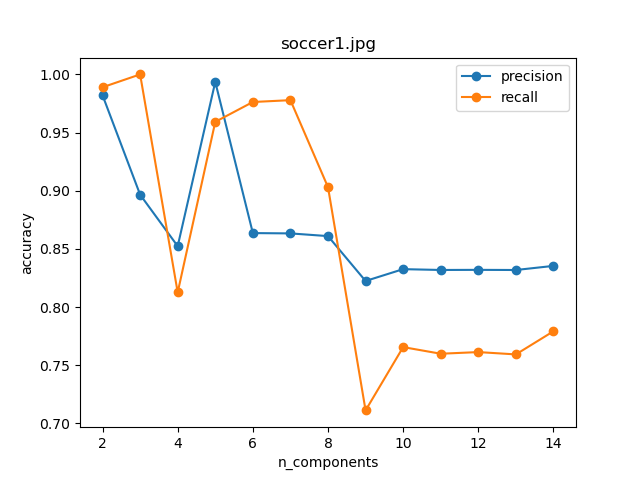
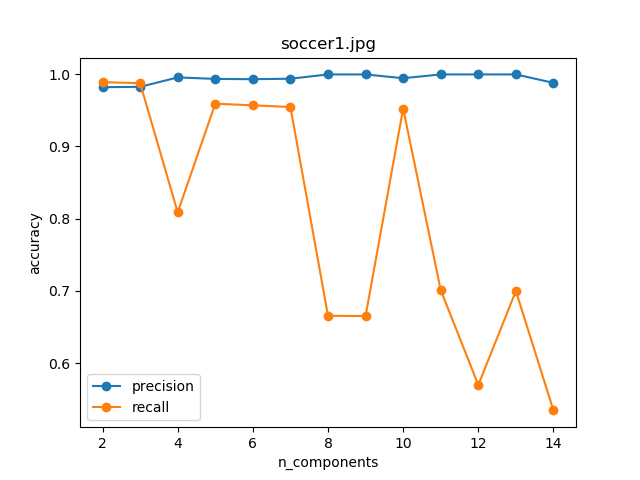
finish v1

diff --git a/python/Multimedia/Homework4/GaussianMixtureModel.py b/python/Multimedia/Homework4/GaussianMixtureModel.py
@@ -38,19 +38,18 @@ class gaussianMixtureModel:
         self.GMM_Model = GaussianMixture(n_components = n).fit(imageReshape)
 
         
-    def predictGaussianMixtureModel(self, filename, reverse = False):
+    def predictGaussianMixtureModel(self, filename):
         if self.GMM_Model == []:
             return
 
         np.random.seed(1)
         self.predictImage = cv2.imread(self.path + filename)
         imageReshape = self.predictImage.reshape((-1, 3))
-
         self.histogram = np.histogram(self.predictImage, bins=100)
-
         gmm_label = self.GMM_Model.predict(imageReshape)
         self.binaryImage = gmm_label.reshape((self.predictImage.shape[0], self.predictImage.shape[1]))
-        self.binaryImage = np.where(self.binaryImage, (not reverse) * 1, reverse * 1)
+        kind = collections.Counter(list(gmm_label.flatten()))
+        self.binaryImage = np.where(self.binaryImage == max(kind, key = kind.get), 1, 0)
         return self.calculateAccuracy(filename)
 
 
@@ -95,7 +94,7 @@ class gaussianMixtureModel:
 def test_gaussianMixtureModel(path, soccer1_filename, soccer2_filename, n_components_range = [2, 10]):
     gmm_func = gaussianMixtureModel(path)
 
-    n_components = list(range(n_components_range[0], n_components_range[1]))
+    n_components = list(range(n_components_range[0], n_components_range[1] + 1))
     soccer1_precisions = []
     soccer2_precisions = []
     soccer1_recalls = []
@@ -104,7 +103,7 @@ def test_gaussianMixtureModel(path, soccer1_filename, soccer2_filename, n_compon
     for n in n_components:
         gmm_func.getGaussianMixtureModel([soccer1_filename, soccer2_filename], n)
         
-        soccer1_precision, soccer1_recall = gmm_func.predictGaussianMixtureModel(soccer1_filename, n == 5)
+        soccer1_precision, soccer1_recall = gmm_func.predictGaussianMixtureModel(soccer1_filename)
         soccer2_precision, soccer2_recall = gmm_func.predictGaussianMixtureModel(soccer2_filename)
         soccer1_precisions.append(soccer1_precision)
         soccer2_precisions.append(soccer2_precision)

diff --git a/python/Multimedia/Homework4/main.py b/python/Multimedia/Homework4/main.py
@@ -11,7 +11,7 @@ if __name__ == "__main__":
     
     # M1 Gaussian Mixture Model 
     gmm_func.getGaussianMixtureModel([soccer1_filename])
-    gmm_func.predictGaussianMixtureModel(soccer1_filename, reverse = True)
+    gmm_func.predictGaussianMixtureModel(soccer1_filename)
     gmm_func.plotResult()
     gmm_func.predictGaussianMixtureModel(soccer2_filename)
     gmm_func.plotResult()
@@ -24,4 +24,4 @@ if __name__ == "__main__":
     gmm_func.plotResult()
 
     # M2 Difference Components Gaussian Mixture Model 
-    test_gaussianMixtureModel(path, soccer1_filename, soccer2_filename, [2, 15])
+    test_gaussianMixtureModel(path, soccer1_filename, soccer2_filename, [2, 14])
